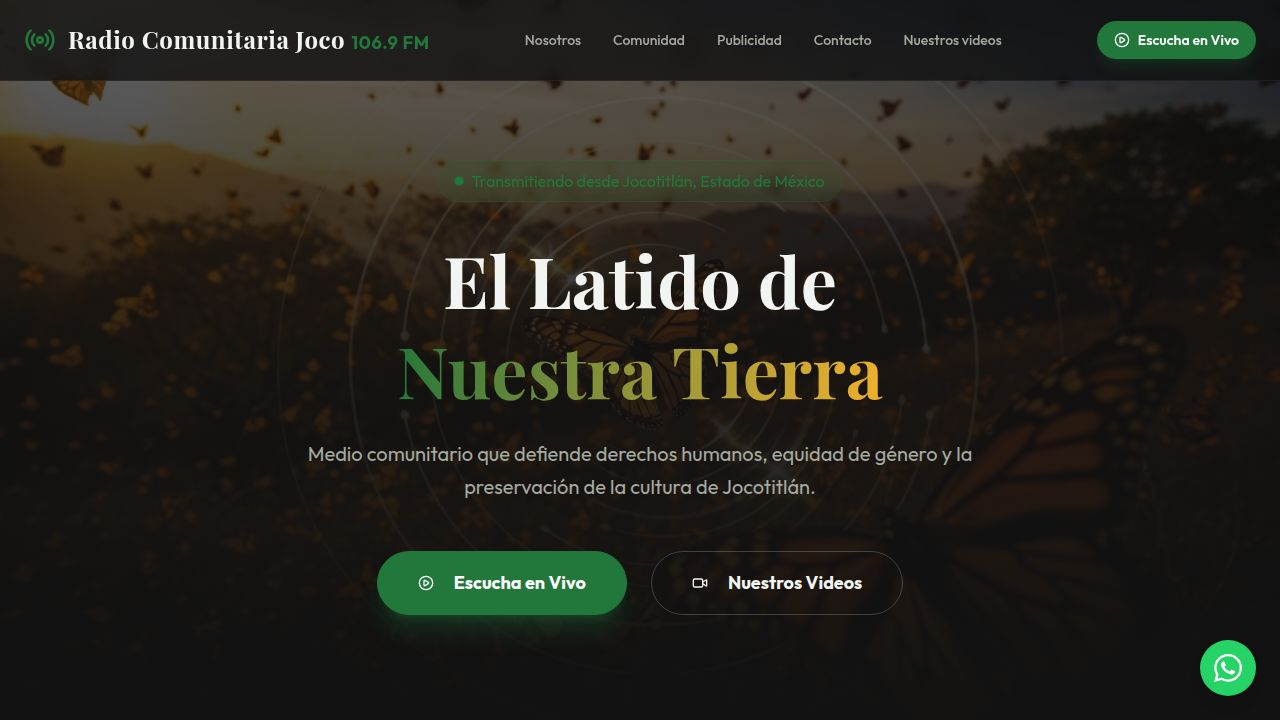
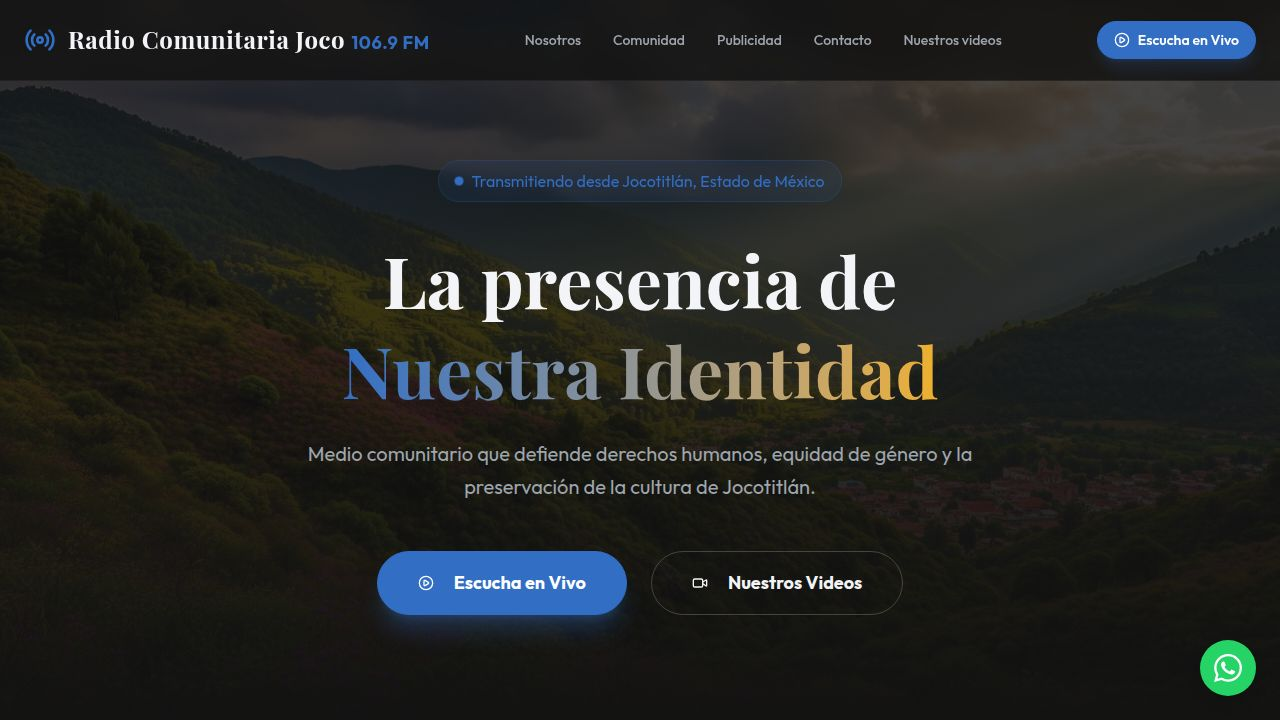
Update website content to include new videos and refine messaging
Update videos page to include a new Facebook reel and adjust existing video entries. Modify the home page title from "El Latido de Nuestra Tierra" to "La presencia de Nuestra Identidad".

Replit-Commit-Author: Agent
Replit-Commit-Session-Id: 550097d3-6ae6-486c-8789-5216aefe4a4a
Replit-Commit-Checkpoint-Type: full_checkpoint
Replit-Commit-Event-Id: 4ab7c284-1625-4066-81ec-cb160cf8eb08
Replit-Commit-Screenshot-Url: https://storage.googleapis.com/screenshot-production-us-central1/2e06bcc2-6ccf-4a67-8739-ef6cc5fc9b7d/550097d3-6ae6-486c-8789-5216aefe4a4a/16PdP6N
Replit-Helium-Checkpoint-Created: true

diff --git a/artifacts/radio-monarca/src/pages/videos.tsx b/artifacts/radio-monarca/src/pages/videos.tsx
@@ -13,47 +13,53 @@ const youtubeVideo = {
 const facebookVideos = [
   {
     // PEGA TU LINK DE FACEBOOK AQUI
-    href: "https://www.facebook.com/radiocomunitariajoco/videos/000000000000001",
-    title: "Video Facebook 1",
-    description: "Transmisión especial de Radio Comunitaria Joco.",
+    href: "https://www.facebook.com/reel/1596586461672678?locale=es_LA",
+    title: "Desde 1820 ya teníamos Ayuntamiento",
+    description:
+      "Antes de que México terminara de ser una nación libre e independiente, Jocotitlán ya sabía organizarse y gobernarse con dignidad.",
   },
   {
     // PEGA TU LINK DE FACEBOOK AQUI
-    href: "https://www.facebook.com/radiocomunitariajoco/videos/000000000000002",
-    title: "Video Facebook 2",
-    description: "Entrevista en vivo desde los estudios de la estación.",
+    href: "https://www.facebook.com/reel/1441061310539274?locale=es_LA",
+    title: "📍 Ruta Mexiquense",
+    description: "¿Sabías que en un solo lugar puedes encontrar de TODO?",
   },
   {
     // PEGA TU LINK DE FACEBOOK AQUI
-    href: "https://www.facebook.com/radiocomunitariajoco/videos/000000000000003",
-    title: "Video Facebook 3",
-    description: "Evento comunitario cubierto por Radio Comunitaria Joco.",
+    href: "https://www.facebook.com/reel/10001395233206631?locale=es_LA",
+    title: "Un tesoro de fe y historia en el corazón de Jocotitlán",
+    description: "La iglesia de Jesús Nazareno, construida en el siglo XVI, no solo fue el primer templo de la comunidad",
   },
   {
     // PEGA TU LINK DE FACEBOOK AQUI
-    href: "https://www.facebook.com/radiocomunitariajoco/videos/000000000000004",
-    title: "Video Facebook 4",
-    description: "Programa especial con invitados de la comunidad.",
+    href: "https://www.facebook.com/reel/1817828938998302?locale=es_LA",
+    title: "Ruta Mexiquense: Hoy estuvimos en el corazón de Jocotitlán",
+    description: "Doña Agustina teje sueños y crea obras de arte. ¡Descubre Joco y déjate sorprender!✨",
   },
   {
     // PEGA TU LINK DE FACEBOOK AQUI
-    href: "https://www.facebook.com/radiocomunitariajoco/videos/000000000000005",
-    title: "Video Facebook 5",
-    description: "Cobertura de festividades locales de Jocotitlán.",
+    href: "https://www.facebook.com/reel/1541865720527326?locale=es_LA",
+    title: "🌶️🔥 RUTA MEXIQUENSE 🔥🌶️",
+    description: "Hoy visitamos “Las Enchiladas Las Kanijas” en el centro de Jocotitlán.",
+  },
+  {
+    href: "https://www.facebook.com/reel/1904641253784968",
+    title: "Reel — Radio Comunitaria Joco",
+    description: "Contenido destacado de nuestra estación comunitaria.",
   },
 ];
 
 export default function VideosPage() {
   return (
     <div className="min-h-[100dvh] bg-background selection:bg-primary/30 selection:text-primary">
-
       {/* Navbar */}
       <nav className="fixed top-0 w-full z-50 bg-background/80 backdrop-blur-md border-b border-white/5">
         <div className="container mx-auto px-6 h-20 flex items-center justify-between">
           <div className="flex items-center gap-3">
             <Radio className="w-8 h-8 text-primary" />
             <span className="font-serif text-2xl font-bold tracking-wide">
-              Radio Comunitaria Joco <span className="text-primary font-sans text-lg">106.9 FM</span>
+              Radio Comunitaria Joco{" "}
+              <span className="text-primary font-sans text-lg">106.9 FM</span>
             </span>
           </div>
           <Link
@@ -81,7 +87,9 @@ export default function VideosPage() {
             Nuestros <span className="text-primary">Videos</span>
           </h1>
           <p className="text-muted-foreground text-lg max-w-xl mx-auto">
-            Revive los mejores momentos de Radio Comunitaria Joco 106.9 FM (XHSCCT) — transmisiones, entrevistas y eventos de nuestra comunidad.
+            Revive los mejores momentos de Radio Comunitaria Joco 106.9 FM
+            (XHSCCT) — transmisiones, entrevistas y eventos de nuestra
+            comunidad.
           </p>
         </motion.div>
       </section>
@@ -166,7 +174,8 @@ export default function VideosPage() {
       {/* Footer */}
       <footer className="border-t border-white/5 py-8">
         <div className="container mx-auto px-6 text-center text-muted-foreground text-sm">
-          © {new Date().getFullYear()} Radio Comunitaria Joco XHSCCT. Todos los derechos reservados.
+          © {new Date().getFullYear()} Radio Comunitaria Joco XHSCCT. Todos los
+          derechos reservados.
         </div>
       </footer>
     </div>

diff --git a/artifacts/radio-monarca/src/pages/home.tsx b/artifacts/radio-monarca/src/pages/home.tsx
@@ -156,9 +156,9 @@ export default function HomePage() {
             </div>
 
             <h1 className="text-3xl sm:text-4xl md:text-7xl font-serif font-bold mb-6 leading-tight break-words">
-              El Latido de <br />
+              La presencia de <br />
               <span className="text-primary sm:text-transparent sm:bg-clip-text sm:bg-gradient-to-r sm:from-primary sm:to-accent">
-                Nuestra Tierra
+                Nuestra Identidad
               </span>
             </h1>
 